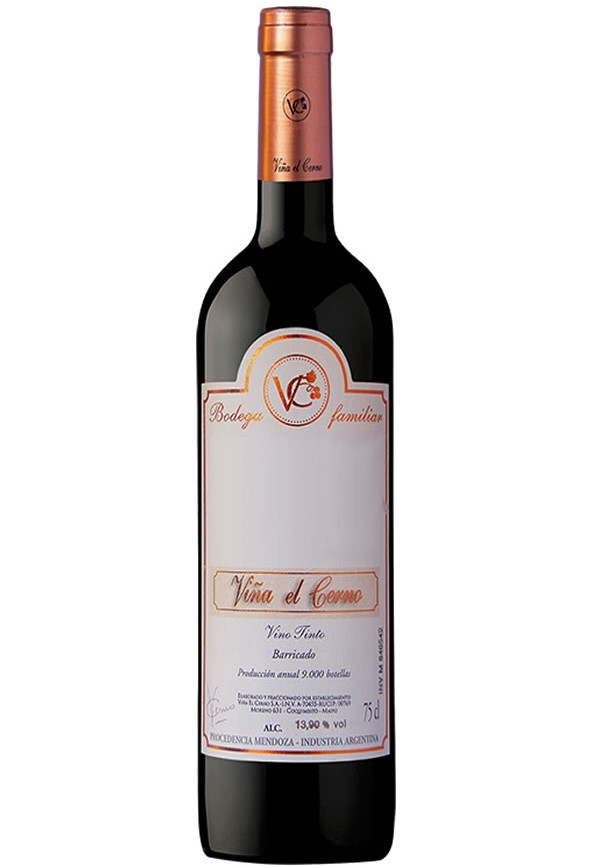
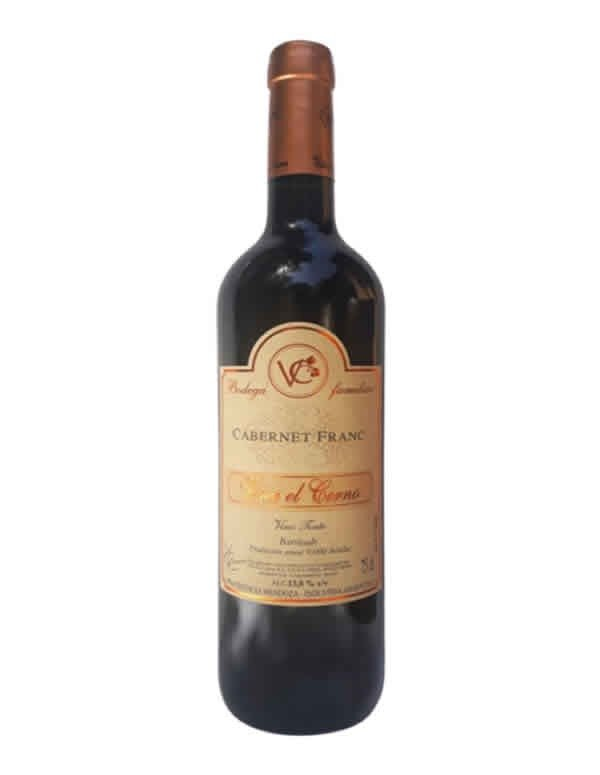
commit dos

Changed region(s): [[0.302, 0.0, 0.6644, 1.0]]

diff --git a/index.html b/index.html
@@ -124,7 +124,7 @@
       </div>
       <!-- tarjeta 6-->
       <div class="card" style="width: 18rem;" class="col-md-6" class="col-sm-12">
-        <img src="./img/VIÑADELCERNO.JPG" class="card-img-top width:100%" width="100%">
+        <img src="./img/viñaelcernopetit.jpg" class="card-img-top width:100%" width="100%">
         <div class="card-body">
           <h5>VIÑA EL CERNO PETIT VERDOT </h5>
 
@@ -215,9 +215,9 @@
             </div>
             <!-- tarjeta 15-->
             <div class="card" style="width: 18rem;" class="col-sm-6">
-              <img src="img/VIÑADELCERNO.JPG" class="card-img-top width:100% ">
+              <img src="img/viñadelcernomerlot.jpg" class="card-img-top width:100% ">
               <div class="card-body">
-                <h5>VINA EL CERNO MERLOT MALBEC
+                <h5>VINA EL CERNO MERLOT
                 </h5>
 
                 <p>Stock <span>✔</span></p>
@@ -236,7 +236,7 @@
               </div>
               <!-- tarjeta 17-->
               <div class="card" style="width: 18rem;" class="col-md-6" class="col-sm-12">
-                <img src="./img/viñadelcernoPetitNoir.jpg" class="card-img-top width:100%" alt="Imagen de la tarjeta">
+                <img src="./img/cabernetsauvi.jpg" class="card-img-top width:100%" alt="Imagen de la tarjeta">
                 <div class="card-body">
                   <h5>VINA EL CERNO CABERNET SAUVIGNON
                   </h5>
@@ -267,7 +267,7 @@
                 </div>
                 <!-- tarjeta 20-->
                 <div class="card" style="width: 18rem;" class="col-md-6" class="col-sm-12">
-                  <img src="./img/viñaAniversario.jpg" class="card-img-top width:100%" alt="Imagen de la tarjeta">
+                  <img src="./img/ANIVESARIOO.JPG.png" class="card-img-top width:100%" alt="Imagen de la tarjeta">
                   <div class="card-body">
                     <h5>VINA EL CERNO ANIVERSARIO
 
@@ -278,7 +278,7 @@
                 </div>
                 <!-- tarjeta 21-->
                 <div class="card" style="width: 18rem;" class="col-md-6" class="col-sm-12">
-                  <img src="img/filosofos.jpg.crdownload" class="card-img-top width:100% ">
+                  <img src="img/filosofos.jpg" class="card-img-top width:100% ">
                   <div class="card-body">
                     <h5>VINA EL CERNO FILOSOFOS
                     </h5>
@@ -375,9 +375,9 @@
                     <div class="row">
                       <!-- tarjeta 28-->
                       <div class="card" style="width: 18rem;" class="col-md-6" class="col-sm-12">
-                        <img src="./img/viñaelcernopetit.jpg" class="card-img-top width:100%" alt="Imagen de la tarjeta">
+                        <img src="./img/pinotNoir.jpg" class="card-img-top width:100%" alt="Imagen de la tarjeta">
                         <div class="card-body">
-                          <h5>VINO POSION MALBEC RESERVA </h5>
+                          <h5>VINO PINOT NOIR </h5>
 
                           <p>Stock <span>✔</span></p>
                         </div>
